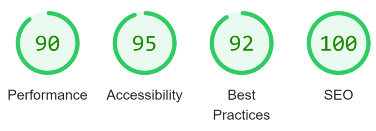
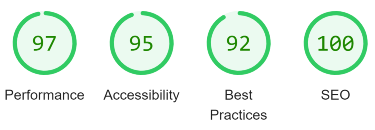
Update lighthouse results for mobile in TESTING.md

diff --git a/TESTING.md b/TESTING.md
@@ -351,15 +351,15 @@ I have run the website through Google Chrome's Lighthouse audit application and 
 | `index.html`             |![lighthouse result desktop index](static/images/lighthouse-desktop-index.webp)              |![lighthouse result mobile index](static/images/lighthouse-mobile-index.webp)               | 
 | `delete_comment.html`    |![lighthouse result desktop delete comment](static/images/lighthouse-desktop-delete-comment.webp)     |![lighthouse result mobile delete comment](static/images/lighthouse-mobile-delete-comment.webp)              |
 | `my-recipes.html`        |![lighthouse result desktop my recipes](static/images/lighthouse-desktop-my-recipes.webp)         |![lighthouse result mobile my recipes](static/images/lighthouse-mobile-my-recipes.webp)          |  
-| `my_starred_recipes.html`|![lighthouse result desktop my starred recipes](static/images/lighthouse-desktop-my-liked-recipes.webp)                |              |
-| `newsletter.html`        |![lighthouse result desktop newsletter](static/images/lighthouse-desktop-newsletter.webp)                 |              |
-| `recipe_detail.html`     |![lighthouse result desktop recipe detail](static/images/lighthouse-desktop-recipe-detail.webp)                |              |
-| `search_results.html`    |![lighthouse result desktop search results](static/images/lighthouse-desktop-search-results.webp)                |              |
-| `update_comment.html`    |![lighthouse result desktop update comment](static/images/lighthouse-desktop-update-comment.webp)                |              |
-| `update_recipe.html`     |![lighthouse result desktop update recipe](static/images/lighthouse-desktop-update-recipe.webp)                |              |
-| `login.html`             |![lighthouse result desktop login](static/images/lighthouse-desktop-login.webp)                |              |
-| `logout.html`            |![lighthouse result desktop logout](static/images/lighthouse-desktop-signout.webp)                |              | 
-| `signup.html`            |![lighthouse result desktop signup](static/images/lighthouse-desktop-signup.webp)                |              |
+| `my_starred_recipes.html`|![lighthouse result desktop my starred recipes](static/images/lighthouse-desktop-my-liked-recipes.webp)   |![lighthouse result mobile my starred recipes](static/images/lighthouse-mobile-my-liked-recipes.webp)              |
+| `newsletter.html`        |![lighthouse result desktop newsletter](static/images/lighthouse-desktop-newsletter.webp)         |![lighthouse result mobile newsletter](static/images/lighthouse-mobile-newsletter.webp)              |
+| `recipe_detail.html`     |![lighthouse result desktop recipe detail](static/images/lighthouse-desktop-recipe-detail.webp)      |![lighthouse result mobile recipe detail](static/images/lighthouse-mobile-recipe-detail.webp)              |
+| `search_results.html`    |![lighthouse result desktop search results](static/images/lighthouse-desktop-search-results.webp)    |![lighthouse result mobile search results](static/images/lighthouse-mobile-search-results.webp)              |
+| `update_comment.html`    |![lighthouse result desktop update comment](static/images/lighthouse-desktop-update-comment.webp)    |![lighthouse result mobile update comment](static/images/lighthouse-mobile-update-comment.webp)              |
+| `update_recipe.html`     |![lighthouse result desktop update recipe](static/images/lighthouse-desktop-update-recipe.webp)     |![lighthouse result mobile update recipe](static/images/lighthouse-mobile-update-recipe.webp)              |
+| `login.html`             |![lighthouse result desktop login](static/images/lighthouse-desktop-login.webp)  |![lighthouse result mobile login](static/images/lighthouse-mobile-login.webp)              |
+| `logout.html`            |![lighthouse result desktop logout](static/images/lighthouse-desktop-signout.webp)|![lighthouse result mobile logout](static/images/lighthouse-mobile-signout.webp)              | 
+| `signup.html`            |![lighthouse result desktop signup](static/images/lighthouse-desktop-signup.webp) |![lighthouse result mobile signup](static/images/lighthouse-mobile-signup.webp)              |
 
 
 <br>
